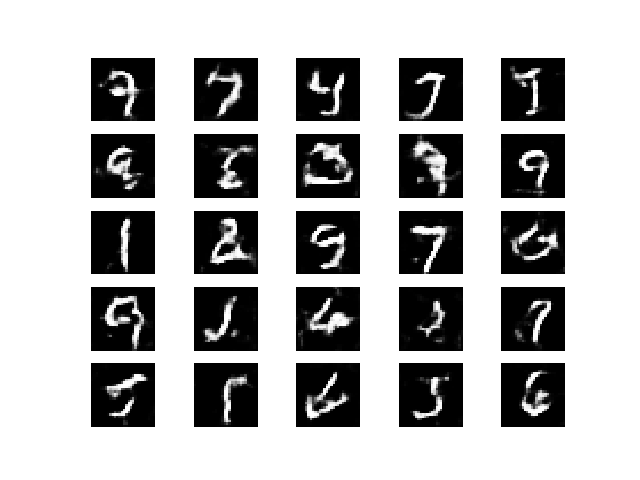
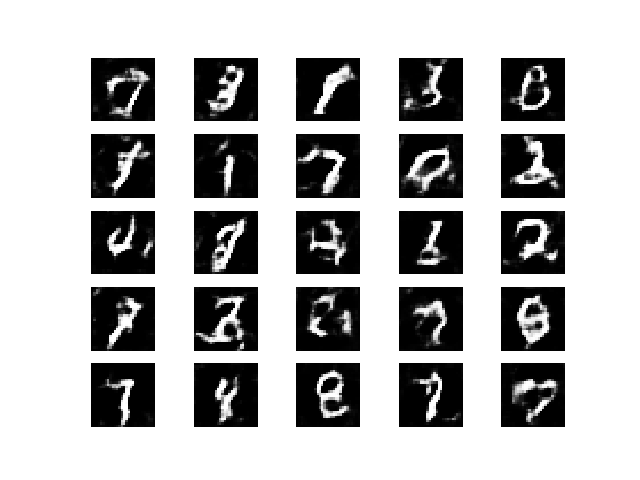
Probably fix of combination of DCGAN and CGAN

diff --git a/Project_on_MNIST/C_DCGAN2.py b/Project_on_MNIST/C_DCGAN2.py
@@ -1,5 +1,8 @@
 from __future__ import print_function, division
 
+from time import time
+
+from keras.callbacks import TensorBoard
 from keras.datasets import mnist
 from keras.layers import Input, Dense, Reshape, Flatten, Dropout, multiply
 from keras.layers import BatchNormalization, Activation, Embedding, ZeroPadding2D
@@ -122,7 +125,24 @@ class C_DCGAN():
         # model.add(LeakyReLU(alpha=0.2))
         # model.add(Dropout(0.4))
         # model.add(Dense(1, activation='sigmoid'))
-        model.add(Conv2D(32, kernel_size=3, strides=2, input_shape=self.img_shape, padding="same"))
+
+        img = Input(shape=self.img_shape)
+        print("self.img_shape", self.img_shape)
+
+        label = Input(shape=(1,), dtype='int32')
+        print("label",label)
+
+
+        label_embedding = Flatten()(Embedding(self.num_classes, np.prod(self.img_shape))(label))
+
+        print(label_embedding.shape)
+
+
+        model_input = multiply([img, label_embedding])
+        #flat_img = Flatten()(model_input)
+
+
+        model.add(Conv2D(32, kernel_size=3, strides=2, padding="same"))
         model.add(LeakyReLU(alpha=0.2))
         model.add(Dropout(0.25))
         model.add(Conv2D(64, kernel_size=3, strides=2, padding="same"))
@@ -140,18 +160,31 @@ class C_DCGAN():
         model.add(Dropout(0.25))
         model.add(Flatten())
         model.add(Dense(1, activation='sigmoid'))
-        model.summary()
+        #model.summary()
 
-        img = Input(shape=self.img_shape)
-        label = Input(shape=(1,), dtype='int32')
+        # model.add(Dense(128 * 7 * 7, activation="relu", input_dim=self.latent_dim))
+        # model.add(Reshape((7, 7, 128)))
+        # model.add(UpSampling2D())
+        # model.add(Conv2D(128, kernel_size=3, padding="same"))
+        # model.add(BatchNormalization(momentum=0.8))
+        # model.add(Activation("relu"))
+        # model.add(UpSampling2D())
+        # model.add(Conv2D(64, kernel_size=3, padding="same"))
+        # model.add(BatchNormalization(momentum=0.8))
+        # model.add(Activation("relu"))
+        # model.add(Conv2D(self.channels, kernel_size=3, padding="same"))
+        # model.add(Activation("tanh"))
+        # model.add(Reshape(self.img_shape))
+        # model.summary()
 
-        label_embedding = Flatten()(Embedding(self.num_classes, np.prod(self.img_shape))(label))
-        flat_img = Flatten()(img)
 
-        model_input = multiply([flat_img, label_embedding])
+        print("model_input", model_input)
+
+        print(model_input.shape)
 
         validity = model(model_input)
-
+        print("validity", validity)
+        print("Model([img, label], validity)", Model([img, label], validity))
         return Model([img, label], validity)
 
     def train(self, epochs, batch_size=128, sample_interval=50):
@@ -196,6 +229,8 @@ class C_DCGAN():
             # Condition on labels
             sampled_labels = np.random.randint(0, 10, batch_size).reshape(-1, 1)
 
+
+            TensorBoard(log_dir="logs/{}".format(time()))
             # Train the generator
             g_loss = self.combined.train_on_batch([noise, sampled_labels], valid)
 
@@ -230,4 +265,4 @@ class C_DCGAN():
 
 if __name__ == '__main__':
     cgan = C_DCGAN()
-    cgan.train(epochs=51, batch_size=32, sample_interval=50)
+    cgan.train(epochs=2001, batch_size=32, sample_interval=50)

diff --git a/Project_on_MNIST/CGAN.py b/Project_on_MNIST/CGAN.py
@@ -97,7 +97,8 @@ class CGAN():
     def build_discriminator(self):
 
         model = Sequential()
-
+        print("self.img_shape", self.img_shape)
+        print("np.prod(self.img_shape)",np.prod(self.img_shape))
         model.add(Dense(512, input_dim=np.prod(self.img_shape)))
         model.add(LeakyReLU(alpha=0.2))
         model.add(Dense(512))
@@ -116,9 +117,10 @@ class CGAN():
         flat_img = Flatten()(img)
 
         model_input = multiply([flat_img, label_embedding])
-
+        print("model_input", model_input)
         validity = model(model_input)
-
+        print("validity", validity)
+        print("Model([img, label], validity)", Model([img, label], validity))
         return Model([img, label], validity)
 
     def train(self, epochs, batch_size=128, sample_interval=50):

diff --git a/Project_on_MNIST/DCGAN.py b/Project_on_MNIST/DCGAN.py
@@ -87,6 +87,8 @@ class DCGAN():
 
         model = Sequential()
 
+        print("self.img_shape", self.img_shape)
+
         model.add(Conv2D(32, kernel_size=3, strides=2, input_shape=self.img_shape, padding="same"))
         model.add(LeakyReLU(alpha=0.2))
         model.add(Dropout(0.25))
